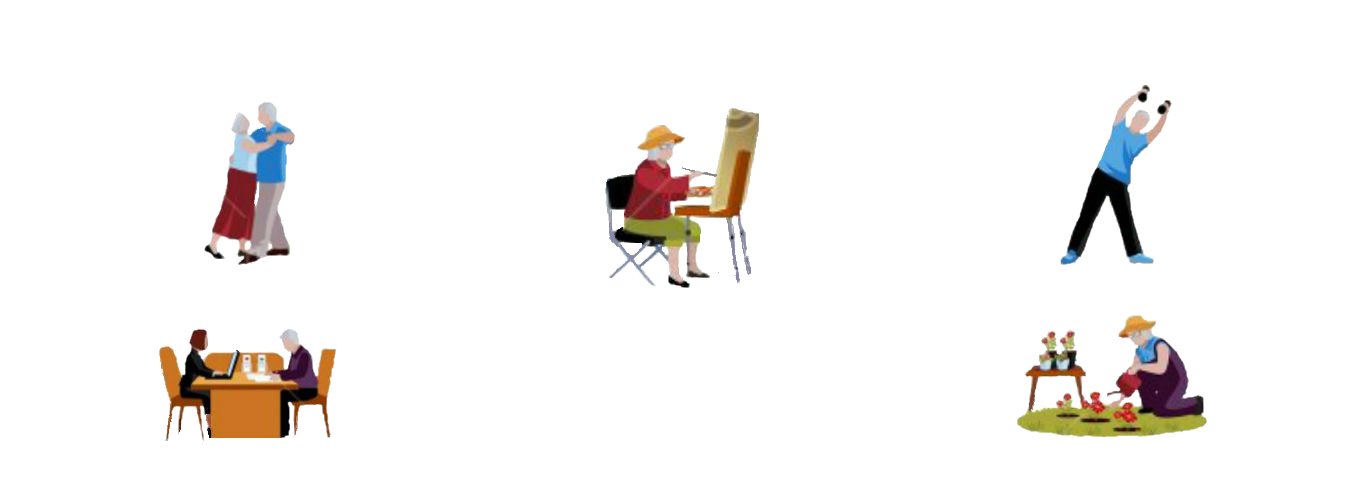
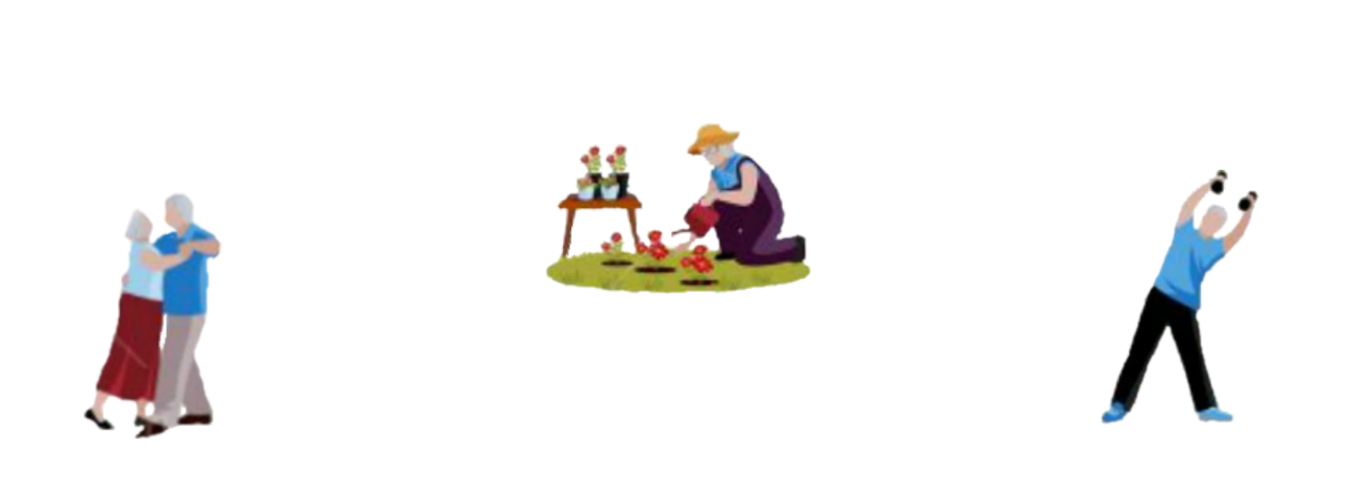
Imagens responsivas e refnamendo no design

Changed region(s): [[0.0622, 0.21, 0.2489, 0.9], [0.7467, 0.18, 0.9333, 0.9], [0.4044, 0.21, 0.6222, 0.6]]

diff --git a/bootstrap_version/docs/examples/carousel/index.html b/bootstrap_version/docs/examples/carousel/index.html
@@ -130,13 +130,13 @@
                <center>
                   <div class="row">
                      <div class="col-md-6">
-                        <span class="container "><img class="img-circle-style1" src="../../assets/img/ilust_alongamento.jpg" alt="busque por profissionais ilustração"></span><br>
+                        <span class=" "><img class="img-circle-style1" src="../../assets/img/ContrateProfissionais.png" alt="busque por profissionais ilustração"></span><br>
                         <footer>
                            <a href="#" class="btn btn-lg btn-primary">Busque por profissionais</a>
                         </footer>
                      </div>
                      <div class="col-md-6">
-                        <span class="container"><img class="img-circle-style1" src="../../assets/img/ilust_serviços.jpg" alt="anuncie seus serviços ilustração"></span>
+                        <span class=""><img class="img-circle-style1" src="../../assets/img/AnuncieSeuNegocio.png" alt="anuncie seus serviços ilustração"></span>
                         <footer>
                            <a href="#" class="btn btn-lg btn-primary">Anuncie seus serviços</a>
                         </footer>

diff --git a/bootstrap_version/docs/examples/carousel/carousel.css b/bootstrap_version/docs/examples/carousel/carousel.css
@@ -86,6 +86,7 @@ body {
 
 .row {
 	margin-top: 1%;
+	
 }
 
 
@@ -115,16 +116,28 @@ body {
 
 .img-circle {
 	border-radius: 8px !important;
-	width: 100%;
-	height: 100%;
-	max-width: 20em;
+	border: 2px solid #302458;
+	margin-bottom: 2%;
+
+	/*responsividade*/
+	width: 18em;
+	display: block;
+	max-width: 100%;
+	height: auto;
+
 }
 
 .img-circle-style1 {
 	border-radius: 8px !important;
-	width: 100%;
-	height: 100%;
-	max-width: 25em;
+	border: 2px solid #302458;
+	background-color: white;
+	margin-bottom: 2%;
+
+	/*responsividade*/
+	width: 20em;
+	display: block;
+	max-width: 100%;
+	height: auto;
 
 }
 
